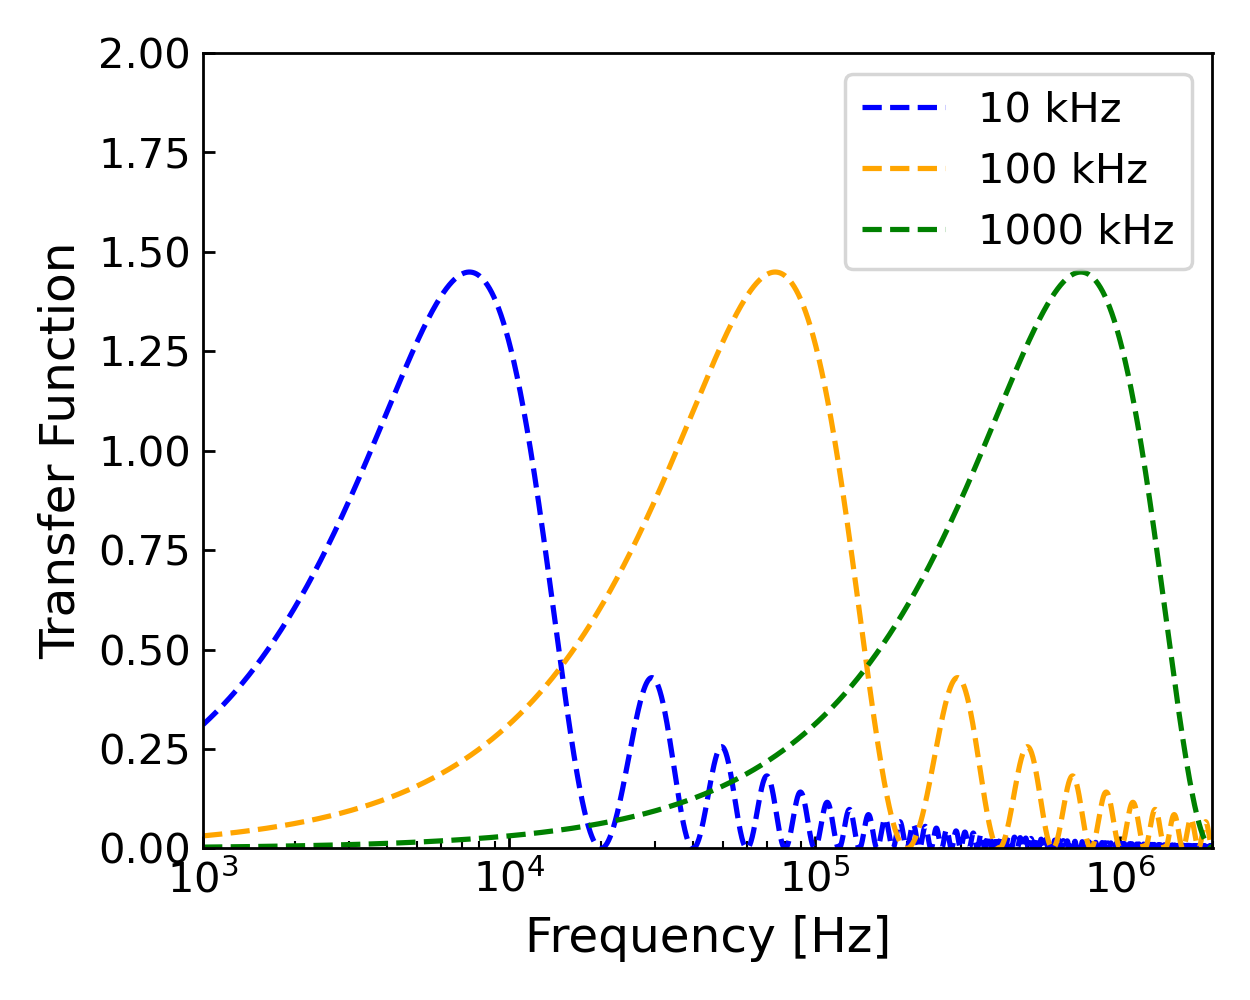
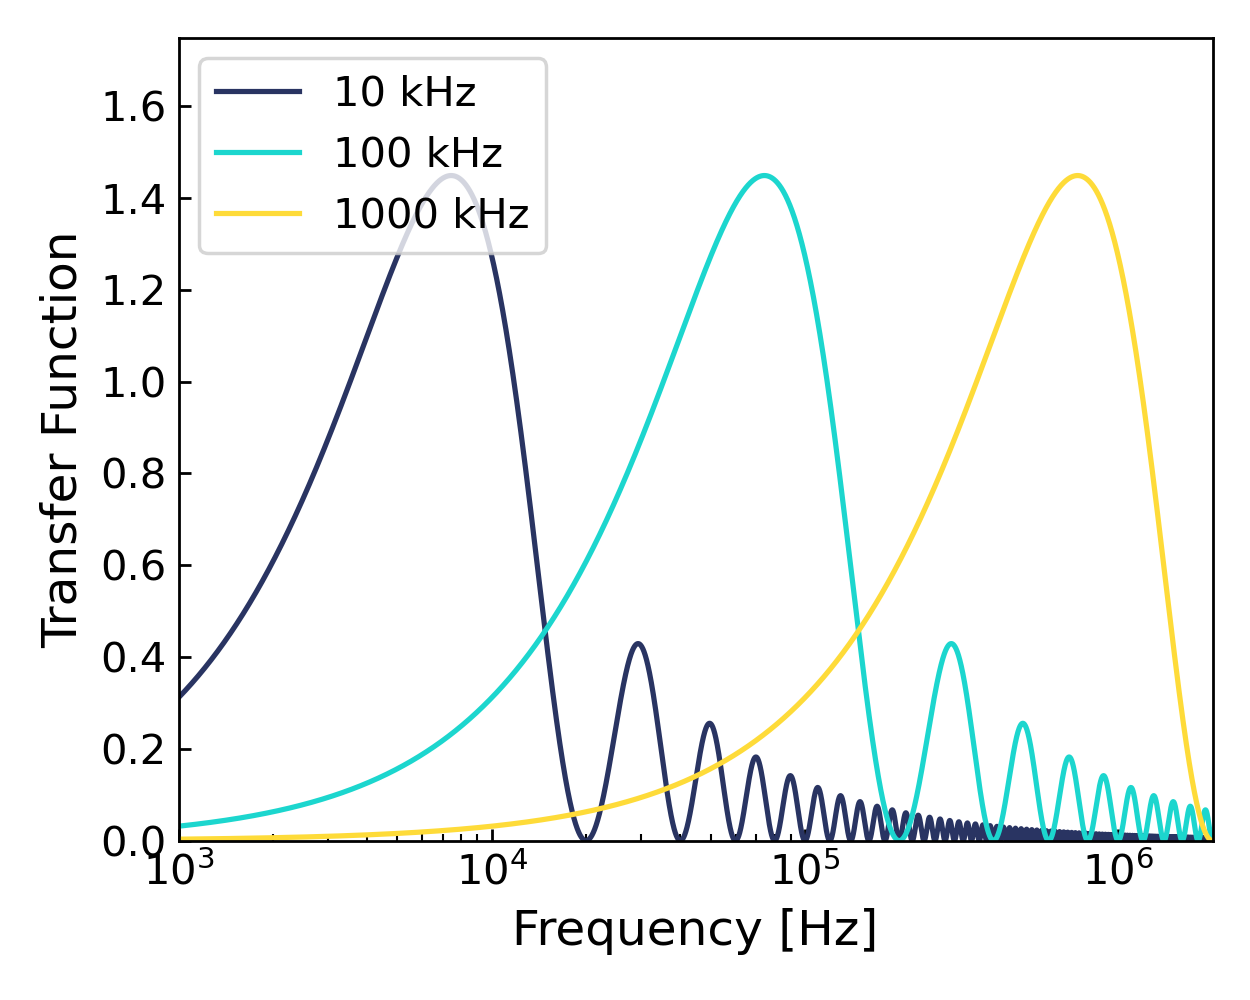
Update noise

diff --git a/CCDs/Skipper_Noise/skipper_noise_modeling.py b/CCDs/Skipper_Noise/skipper_noise_modeling.py
@@ -18,7 +18,7 @@ from astropy.modeling.models import custom_model
 from astropy.modeling import Fittable1DModel, Parameter
 # BP Import needed packages.
 
-machine = 'Desktop'
+machine = 'Linux'
 # BP Define what machine code is being run on to save files. For internal use only.
 
 if machine == 'Linux':
@@ -36,194 +36,232 @@ plt.rc('ytick', labelsize=12)
 plt.rc('legend', fontsize=12)
 # BP Plot stylization parameters.
 
-# BP
-@u.quantity_input(f=u.Hz, t=u.s, delay=u.s)
-def transfer(f, t, delay = 0*u.s):
+plot_colors = ['#293462', '#1CD6CE', '#FEDB39', '#D61C4E', '#0b132b']
+
+@u.quantity_input(f=u.Hz, tau=u.s, delay=u.s)
+def transfer(f, tau, n, delay = 0*u.s):
     '''
-    t is the integration time of the signal and pedestal levels
-    f is the frequency at which the ccd is clocked
+    Function defining the transfer function for correlated double sampling.
+    Valid for both single samples and multiple samples at varying pedestal sampling times.
+    
+    f : astropy.units.Quantity
+        Array of input frequencies as an astropy Quantity. This is the value the function is evaluated at, and represents the specific frequency contribution.
+    
+    tau : astropy.units.Quantity
+        The pedestal integration time, i.e. how long it takes to move the charge on and off of the pedestal. The individual pixel time is thus half this.
+        
+    n : int
+        The number of times a sample is taken. For Skipper CCDs, this is analagous to the number of skips.
     '''
-    t = t / 2 + delay
+    
+    tau = tau / 2
 
-    noise_density = 2 * (np.sin((np.pi * f * t).to(u.rad, equivalencies=u.dimensionless_angles())))**2 / ((np.pi * f * t).to(u.rad, equivalencies=u.dimensionless_angles()))
-    # noise_density[f>1/t] = 0
-    return noise_density
+    part1 = 4 * (np.sin((np.pi * f * tau).to(u.rad, equivalencies=u.dimensionless_angles())))**2 / (2 * np.pi * f * tau * n).to(u.rad, equivalencies=u.dimensionless_angles())
+    part2 = abs( np.sin((2*np.pi * f * tau * n).to(u.rad, equivalencies=u.dimensionless_angles())) / np.sin((2*np.pi * f * tau).to(u.rad, equivalencies=u.dimensionless_angles())))
 
-@u.quantity_input(f=u.Hz, t=u.s, delay=u.s)
-def transfer_skipper(f, t, n, delay = 0*u.s):
+    transfer_value = part1*part2
+
+    return transfer_value
+# BP Define function to return the transfer function. Describes how much weight is given to noise at each frequency.
+
+@u.quantity_input(ewn=u.V/u.Hz**0.5, f1=u.Hz, f2=u.Hz, tau=u.s, delay=u.s, conversion=u.V/u.electron)
+def total_noise_model(n, ewn, tau, f1, f2, conversion, delay=0*u.s):
     '''
-    t is the integration time of the signal and pedestal levels
-    f is the frequency at which the ccd is clocked
+    Theoretical total noise model as a function of noise spectrum parameters. Valid for noise model as defined by the 1/f and 1/f^2 noise corner and white noise level.
+    Defined in Greffe & Smith 2024 Poster.
+    Valid for both single and mutiple samples.
+    
+    n : int
+        The number of times a sample is taken. For Skipper CCDs, this is analagous to the number of skips.
+    
+    ewn : astropy.units.Quantity
+        White noise level in V/Hz^1/2. Should be the value the noise spectrum levels off at.
+    
+    tau : astropy.units.Quantity
+        The pedestal integration time, i.e. how long it takes to move the charge on and off of the pedestal. The individual pixel time is thus half this.
+    
+    f1 : astropy.units.Quantity
+        1/f noise corner frequency. Where the noise spectrum turns over.
+        
+    f2 : astropy.units.Quantity
+        1/f^2 noise corner frequency. Where the noise spectrum turns over.
+        
+    conversion : astropy.units.Quantity
+        Conversion factor to convert between number of electrons and volts.
     '''
-    t = t / 2 + delay
+    tau = tau / 2
+    
+    total_noise = ewn * np.sqrt(1/tau + 4*f1*np.log(2) + 4/3 * f2**2 * np.pi**2 * tau) / np.sqrt(n)
 
-    part1 = 4 * (np.sin((np.pi * f * t).to(u.rad, equivalencies=u.dimensionless_angles())))**2 / (2 * np.pi * f * t * n).to(u.rad, equivalencies=u.dimensionless_angles())
-    part2 = abs( np.sin((2*np.pi * f * t * n).to(u.rad, equivalencies=u.dimensionless_angles())) / np.sin((2*np.pi * f * t).to(u.rad, equivalencies=u.dimensionless_angles())))
+    return total_noise / conversion
 
-    noise_density = part1 * part2
-    # noise_density[f>1/t] = 0
-    return noise_density
-
-@u.quantity_input(f1=u.Hz, f2=u.Hz, t=u.s, delay=u.s)
-def sig_cds(ewn, t, f1, f2, delay=0*u.s):
+@u.quantity_input(f=u.Hz, tau=u.s, noise_density=u.V/u.Hz**0.5, conversion=u.V/u.electron)
+def total_noise_integral(f, tau, noise_density, conversion):
     '''
-    ewn is voltage noise density of white noise
-    Function defined in poster.
+    The total noise calculated by convolving the noise density spectrum with the transfer function.
+    All values must be in MKS.
+    
+    f : astropy.units.Quantity
+        Array of input frequencies as an astropy Quantity. This is the value the function is evaluated at, and represents the specific frequency contribution.
+    
+    tau : astropy.units.Quantity
+        The pedestal integration time, i.e. how long it takes to move the charge on and off of the pedestal. The individual pixel time is thus half this.
+        
+    noise_density : astropy.units.Quantity
+        The noise density spectrum from the on-chip MOSFET. In units of V/Hz^1/2     
+        
+    conversion : astropy.units.Quantity
+        Conversion factor to convert between number of electrons and volts.
     '''
-    t = t / 2 + delay
-
-    return ewn * np.sqrt(1/t + 4*f1.si*np.log(2) + 4/3 * f2**2 * np.pi**2 * t)
-
-@u.quantity_input(f1=u.Hz, f2=u.Hz, t=u.s, delay=u.s)
-def sig_skipper(n, ewn, t, f1, f2, delay=0*u.s):
-    '''
-    ewn is voltage noise density of white noise
-    Function defined in poster.
-    '''
-    t = t / 2 + delay
-
-    return ewn * np.sqrt(1/t + 4*f1*np.log(2) + 4/3 * f2**2 * np.pi**2 * t) / np.sqrt(n)
-
-@u.quantity_input(speed=u.s, noise_freqs=u.Hz)
-def total_noise(speed, noise_density, noise_freqs):
-    '''Calculate total noise by convolving the noise density spectrum with the CDS transfer function.'''
 
     try:
-        length = len(speed)
         variance = []
-        for i in range(length):
-            value = simpson((noise_density * transfer(noise_freqs, speed[i]))**2, noise_freqs)
+        for i in range(len(tau)):
+            value = simpson((noise_density * transfer(noise_freqs, tau[i]))**2, f)
             variance.append(value)
 
     except:
-        variance = simpson((noise_density * transfer(noise_freqs, speed))**2, noise_freqs)
+        variance = simpson((noise_density * transfer(noise_freqs, tau))**2, f)
         
     sigma = np.sqrt(variance)
-    return sigma
+    return sigma / conversion
 
-#@custom_model
-#@u.quantity_input(f=u.Hz, f1=u.Hz, f2=u.Hz, ewn=u.V/u.Hz**0.5)
-def noise_model(f, ewn, f1, f2):
-    f = u.Quantity(f, u.Hz).value
-    f1 = u.Quantity(f1, u.Hz).value
-    f2 = u.Quantity(f2, u.Hz).value
-    ewn = u.Quantity(ewn, u.V / u.Hz**0.5).value
+@u.quantity_input(f=u.Hz, f1=u.Hz, f2=u.Hz, conversion=u.V/u.electron, ewn=u.V/u.Hz**0.5)
+def noise_spectrum_model(f, ewn, f1, f2, conversion):
+    '''
+    Theoretical MOSFET noise spectrum function to allow extrapolation from measured spectrum by best fit.
     
-    # return ewn * f1.value / f.value *n1 + ewn * f2.value / f.value**2 * n2 + ewn
-    # return ewn * ((f/f1)**-1 + 1) * (1 + (f/f2)**2)**-1
-    return ewn * (1/(1 + (f/f2)**2) + 1/(f/f1))
+    f : astropy.units.Quantity
+        Array of input frequencies as an astropy Quantity. This is the value the function is evaluated at, and represents the specific frequency contribution.
+    
+    ewn : astropy.units.Quantity
+        White noise level in V/Hz^1/2. Should be the value the noise spectrum levels off at.
+    
+    f1 : astropy.units.Quantity
+        1/f noise corner frequency. Where the noise spectrum turns over.
+        
+    f2 : astropy.units.Quantity
+        1/f^2 noise corner frequency. Where the noise spectrum turns over.
+        
+    conversion : astropy.units.Quantity
+        Conversion factor to convert between number of electrons and volts.
+    '''
 
+    return ewn * (1/(1 + (f/f2)**2) + 1/(f/f1)) / conversion
 
 quantity_support()
+# BP Allow plotting with units.
 
 fig, ax = plt.subplots(1, 1, figsize=(5,4), layout='tight')
+# BP Initialize plots.
 
-freqs = np.logspace(0,10,10000) * u.Hz
-tau = np.logspace(-9, -3, 10000) * u.s 
+frequencies = np.logspace(0,10,100000) * u.Hz
+taus = np.logspace(-10, 0, 100000) * u.s 
+# BP Create array of frequencies and pedestal times.
 
-int_speed_10 = 1/(10*u.kHz)
-int_speed_100 = 1/(100*u.kHz)
-int_speed_1000 = 1/(1*u.MHz)
+tau_10 = 1/(10*u.kHz)
+tau_100 = 1/(100*u.kHz)
+tau_1000 = 1/(1*u.MHz)
+# BP Define three discrete pedestal times.
 
-ax.plot(freqs, transfer(freqs, int_speed_10), label = '{:.0f}'.format((1/int_speed_10).to(u.kHz)), color = 'blue', ls='--')
-ax.plot(freqs, transfer(freqs, int_speed_100), label = '{:.0f}'.format((1/int_speed_100).to(u.kHz)), color = 'orange', ls='--')
-ax.plot(freqs, transfer(freqs, int_speed_1000), label = '{:.0f}'.format((1/int_speed_1000).to(u.kHz)), color='green', ls='--')
+ax.plot(frequencies, transfer(frequencies, tau_10, 1), label = '{:.0f}'.format((1/tau_10).to(u.kHz)), color = plot_colors[0], ls='-')
+ax.plot(frequencies, transfer(frequencies, tau_100, 1), label = '{:.0f}'.format((1/tau_100).to(u.kHz)), color = plot_colors[1], ls='-')
+ax.plot(frequencies, transfer(frequencies, tau_1000, 1), label = '{:.0f}'.format((1/tau_1000).to(u.kHz)), color = plot_colors[2], ls='-')
+# BP Plot transfer functions.
 
 ax.set_xlabel(r'Frequency [Hz]')
 ax.set_ylabel(r'Transfer Function')
 ax.legend(loc = 'best')
 ax.set_xlim(1e3, 0.2e7)
 ax.set_xscale('log')
-ax.set_ylim(0, 2)
-
+ax.set_ylim(0, 1.75)
 ax.tick_params(axis='both', direction='in', which='both')
-
 fig.tight_layout()
+# BP Sylization parameters.
 
 plt.savefig(path + '/Research/CCDs/Skipper_Noise/cds_transfer_func.png', dpi=250)
 plt.show()
-
+# BP Save figure.
 
 fig, ax = plt.subplots(1, 1, figsize=(5,4), layout='tight')
+# BP Initialize plots.
 
-freqs = np.logspace(0,10,10000) * u.Hz
-tau = np.logspace(-9, -3, 10000) * u.s 
+tau_200 = 1/(2e5*u.Hz)
+n_skip_1 = 2
+n_skip_2 = 32
+# BP Define pedestal time and number of skips.
 
-int_speed = 1/(2e5*u.Hz)
-nskip1 = 2
-nskip2 = 32
-
-ax.plot(freqs, transfer_skipper(freqs, int_speed, 1), color = 'black', ls='--', label='1 Skip')
-ax.plot(freqs, transfer_skipper(freqs, int_speed, nskip1), color = 'black', ls=':', label='2 Skips')
-ax.plot(freqs, transfer_skipper(freqs, int_speed, nskip2), color = 'black', ls='dashdot', label='32 Skips')
+ax.plot(frequencies, transfer(frequencies, tau_200, 1), color = plot_colors[0], ls='-', label='1 Skip')
+ax.plot(frequencies, transfer(frequencies, tau_200, n_skip_1), color = plot_colors[1], ls='-', label='2 Skips')
+ax.plot(frequencies, transfer(frequencies, tau_200, n_skip_2), color = plot_colors[2], ls='-', label='32 Skips')
+# BP Plot transfer function of different number of skips.
 
 ax.set_xlabel(r'Frequency [Hz]')
 ax.set_ylabel(r'Transfer Function')
 ax.legend(loc = 'best')
 ax.set_xlim(1e3, 1e7)
 ax.set_xscale('log')
-ax.set_ylim(0, 2)
-
+ax.set_ylim(0, 1.75)
 ax.tick_params(axis='both', direction='in', which='both')
-
 fig.tight_layout()
+# BP Stylization parameters.
 
 plt.savefig(path + '/Research/CCDs/Skipper_Noise/skipper_cds_transfer_func.png', dpi=250)
 plt.show()
-
-
-stop
-
+# BP Save figure.
 
 fig, ax = plt.subplots(1, 1, figsize=(5,4), layout='tight')
 ax2 = ax.twiny()
-
-freqs = np.logspace(0,10,10000) * u.Hz
-tau = np.logspace(-9, -2, 10000) * u.s 
+# BP Initialize plots.
 
 wn_floor = 2e-8 * u.V / ((u.Hz)**(1/2))
+# BP Define white noise floor.
 
 nc_1f = 100 * u.kHz
 nc_1f2 = 100 * u.kHz#2e6 * u.Hz # Nominally 100 * u.kHz
+# BP Define noise corners.
 
-skips = 512
+n_skips = 512
+# BP Define number of skips.
 
-npixx = 4000
-npixy = 2000
-npix=npixx * npixy
-namp = 128
+n_pix_x = 4000
+n_pix_y = 2000
+n_pix = n_pix_x * n_pix_y
+# BP Define number of pixels.
 
-conversion =6.5e-6
+n_amp = 128
+# BP Define number of amplifiers.
+
+conversion = 6.5e-6 * u.V/u.electron
 # Steve recommended 5e-6 - 2.5e6
-# delay = 0.01*u.us
 
-ax.plot(tau, sig_cds(wn_floor, tau, nc_1f, nc_1f2) / conversion, label='Total Noise', color='purple')
-ax.plot(tau*skips, sig_skipper(skips, wn_floor, tau, nc_1f, nc_1f2) / conversion, label='512 Skips', color='purple', ls='--')
-ax.axvline(1/(200 * u.kHz), label='200 kHz Optimum', color='k', ls=':')
-# ax.axvline(1/(5000 * u.kHz), label='5 MHz', color='k', ls=':')
+ax.plot(taus, total_noise_model(1, wn_floor, taus, nc_1f, nc_1f2, conversion), label='Traditional CCD', color=plot_colors[1])
+ax.plot(taus * n_skips, total_noise_model(n_skips, wn_floor, taus, nc_1f, nc_1f2, conversion), label='512 Skips', color=plot_colors[1], ls='--')
+ax.axhline(0.15, color=plot_colors[3], ls=':', label='0.15 e$^-$ threshold')
+# BP Plot total integrated noise using theoretical model.
 
-ax.axhline(0.15, color='red', ls='--', label='0.15 e$^-$ threshold')
-
-ax.set_xlabel(r'Pixel Time [s]')
-ax.set_ylabel(r'Integrated Noise [e-]')
-ax2.set_xlabel(r'Readout Time [s]')
-ax.legend(loc = 'best')
-ax.set_xlim(1e-6, 1e-2)
-ax2.set_xlim(1e-6*npix/namp, 1e-2*npix/namp)
-ax2.set_xscale('log')
 ax.set_xscale('log')
 ax.set_yscale('log')
-ax.set_ylim(1e-2, 1e2)
-
+ax.set_xlabel(r'Pixel Time [s]')
+ax.set_ylabel(r'Integrated Noise [e-]')
+ax.legend(loc = 'best')
+ax.set_xlim(1e-6, 1e-1)
+ax.set_ylim(5e-3, 1e2)
 ax.tick_params(axis='both', direction='in', which='both')
+# BP Pedestal time axes sytlization.
 
+ax2.set_xscale('log')
+ax2.set_xlabel(r'Readout Time [s]')
+ax2.set_xlim(ax.get_xlim()[0] * n_pix / n_amp, ax.get_xlim()[1] * n_pix / n_amp)
+ax2.tick_params(axis='both', direction='in', which='both')
 fig.tight_layout()
+# Calculate corresponding read time for secondary axes. Stylization parameters.
 
 plt.savefig(path + '/Research/CCDs/Skipper_Noise/model_integrated_noise.png', dpi=250)
 plt.show()
+# BP Save figure.
 
-
-
+stop
 
 noise_spectrum = pd.read_csv(path + '/Research/CCDs/Skipper_Noise/STANoiseSpectrum.csv', header=None)
 
@@ -308,8 +346,8 @@ best_guess = [1.9e-8, 1e5, 0.95e7]
 popt, pcov = curve_fit(noise_model, noise_freqs, noise_density, p0=best_guess, bounds=([0, 0, 0],[np.infty,np.infty,np.infty]), sigma = np.sqrt(noise_density), absolute_sigma=False)
 cerr = np.sqrt(np.diag(pcov))
 
-sig_below = noise_model(freqs, popt[0]-cerr[0],popt[1]-cerr[1],popt[2]-cerr[2])
-sig_above = noise_model(freqs, popt[0]+cerr[0],popt[1]+cerr[1],popt[2]+cerr[2])
+sig_below = noise_model(frequencies, popt[0]-cerr[0],popt[1]-cerr[1],popt[2]-cerr[2])
+sig_above = noise_model(frequencies, popt[0]+cerr[0],popt[1]+cerr[1],popt[2]+cerr[2])
 
 # =============================================================================
 # z = np.polyfit(noise_freqs.value, noise_density.value, 7)
@@ -331,12 +369,12 @@ fig, ax = plt.subplots(1, 1, figsize=(6,4.5), layout='tight')
 
 popt2 = [1.9e-8, 1e5, 0.9e7]
 
-ax.plot(freqs, noise_model(freqs, *popt), label='Total Noise \ne$_{{wn}}$={:.2e}$\pm${:.2e}\nf$_{{1nc}}$={:.2e}$\pm${:.2e}\n$f_{{2nc}}=${:.2e}$\pm${:.2e}'.format(popt[0],cerr[0],popt[1],cerr[1],popt[2],cerr[2]), color='purple')
-ax.plot(freqs, noise_model(freqs, *popt2), label='Theoretical', color='green')
+ax.plot(frequencies, noise_model(freqs, *popt), label='Total Noise \ne$_{{wn}}$={:.2e}$\pm${:.2e}\nf$_{{1nc}}$={:.2e}$\pm${:.2e}\n$f_{{2nc}}=${:.2e}$\pm${:.2e}'.format(popt[0],cerr[0],popt[1],cerr[1],popt[2],cerr[2]), color='purple')
+ax.plot(frequencies, noise_model(freqs, *popt2), label='Theoretical', color='green')
 #ax.plot(freqs.value, p(freqs.value), color='orange')
 ax.plot(noise_freqs, noise_density, color='red', ls='-')
 
-ax.fill_between(freqs, sig_below, sig_above, facecolor='purple', alpha=0.25)
+ax.fill_between(frequencies, sig_below, sig_above, facecolor='purple', alpha=0.25)
 
 ax.set_xlabel(r'Frequency [Hz]')
 ax.set_ylabel(r'Noise Density [nV Hz$^{-1/2}$]')
